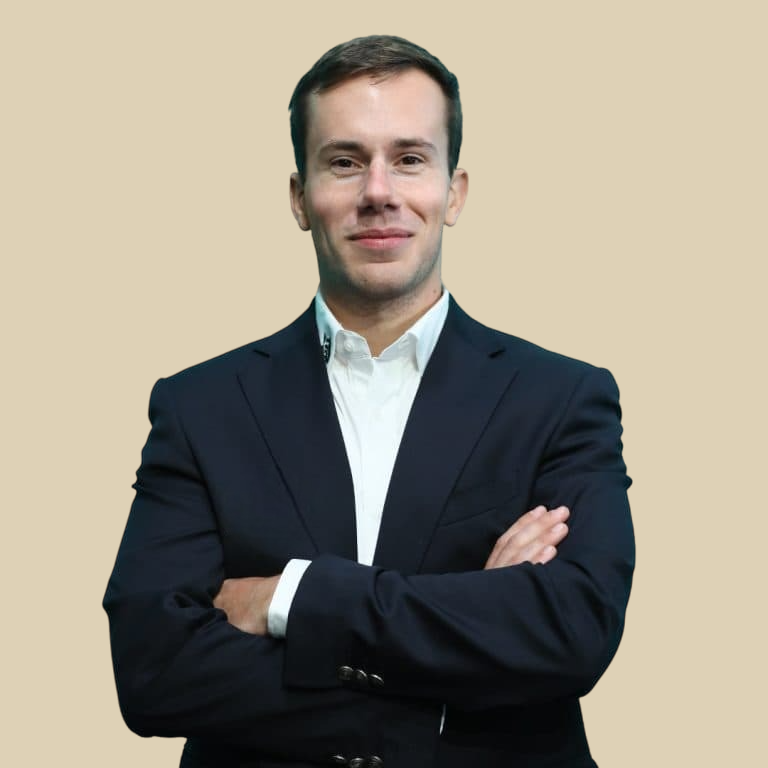
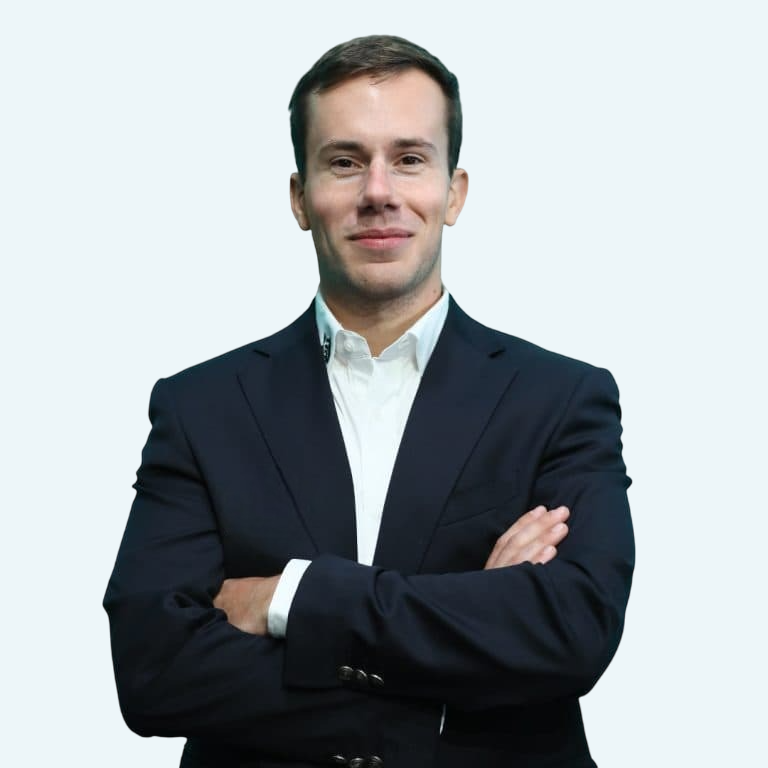
MAJ site

diff --git a/graph.py b/graph.py
@@ -77,7 +77,7 @@ def parcours_timeline_fr():
         
     fig.update_xaxes(showgrid=False, title=None)
     fig.update_yaxes(showgrid=False, showticklabels=False, title=None)
-    fig.update_layout(plot_bgcolor='#F1E4C8', paper_bgcolor='#F1E4C8', xaxis=dict(tickvals=[2013, 2014, 2015, 2016, 2018, 2020, 2021, 2022, 2023]))
+    fig.update_layout(plot_bgcolor='white', paper_bgcolor='white', xaxis=dict(tickvals=[2013, 2014, 2015, 2016, 2018, 2020, 2021, 2022, 2023]))
     fig.update_traces(customdata=exp_df, hovertemplate='<b>%{customdata[1]}</b><br><br>%{customdata[2]}<br><br>%{customdata[3]}',
                       hoverlabel=dict(bgcolor='white'))
 
@@ -154,7 +154,7 @@ def parcours_timeline_eng():
         
     fig.update_xaxes(showgrid=False, title=None)
     fig.update_yaxes(showgrid=False, showticklabels=False, title=None)
-    fig.update_layout(plot_bgcolor='#F1E4C8', paper_bgcolor='#F1E4C8', xaxis=dict(tickvals=[2013, 2014, 2015, 2016, 2018, 2020, 2021, 2022, 2023]))
+    fig.update_layout(plot_bgcolor='white', paper_bgcolor='white', xaxis=dict(tickvals=[2013, 2014, 2015, 2016, 2018, 2020, 2021, 2022, 2023]))
     fig.update_traces(customdata=exp_df, hovertemplate='<b>%{customdata[1]}</b><br><br>%{customdata[2]}<br><br>%{customdata[3]}',
                       hoverlabel=dict(bgcolor='white'))
 

diff --git a/datadella.py b/datadella.py
@@ -16,7 +16,7 @@ from datadella_eng import page_eng
 ##############################################
 
 page_title = 'Datadella'
-page_icon = 'logo/Logo9.png'
+page_icon = 'logo/Logo2b.png'
 st.set_page_config(layout='wide', page_icon=page_icon, page_title=page_title)
 
 st.markdown(" <style> div[class^='block-container'] { padding-top: 2rem; } </style> ", unsafe_allow_html=True)
@@ -39,7 +39,7 @@ xp_fig = exp_timeline()
 
 ci, ct = st.columns([.9, .1])
 with ci:
-    st.image('logo/Logo11.png')
+    st.image('logo/Logo2c.png', width=300)
 with ct:
     eng = st.toggle('English')
 
